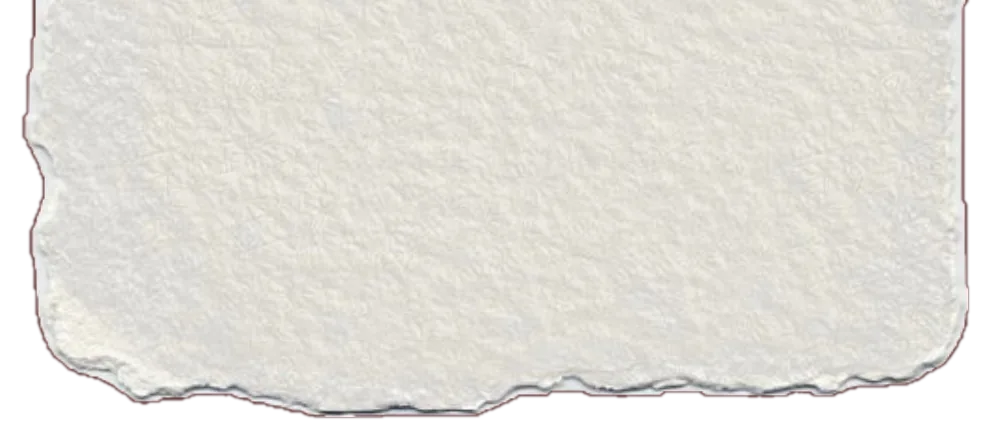
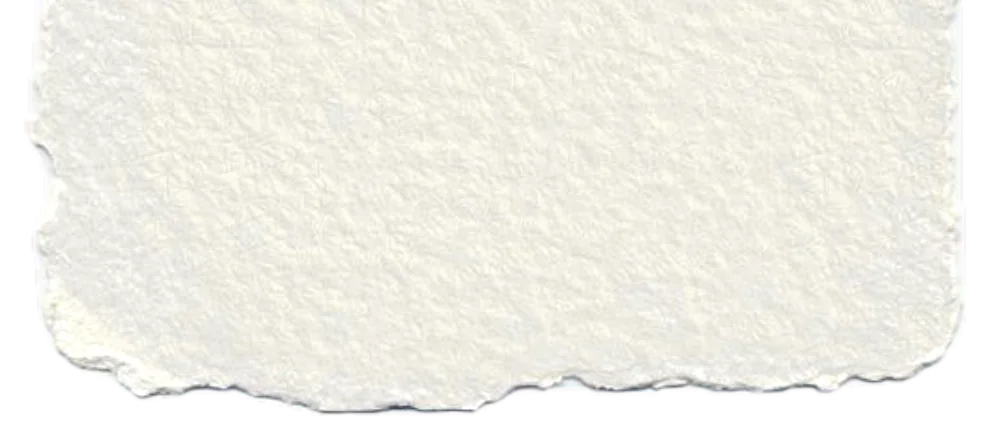
Preguntas frecuentes: papel sin sello ni fondo rojo, preguntas visibles directamente
Claude-Session: https://claude.ai/code/session_01GZEGc3GfotYqVDB8Dyx519

diff --git a/index.html b/index.html
@@ -497,38 +497,37 @@
   <!-- ===================== PREGUNTAS FRECUENTES (carta que se abre) ===================== -->
   <section id="preguntas" class="faq" aria-label="Preguntas frecuentes">
     <div class="wrap">
-      <details class="carta">
-        <summary class="carta-papel">
-          <span class="carta-titulo">Preguntas frecuentes</span>
-          <span class="carta-abrir">toquen para abrir la carta</span>
-        </summary>
-        <div class="carta-preguntas">
-          <details class="pregunta">
-            <summary>¿Cómo pueden reservarme?</summary>
-            <p>Pueden reservar su fecha con el primer anticipo (50%) y la firma del contrato.</p>
-          </details>
-          <details class="pregunta">
-            <summary>¿Cuántas fotos entrego?</summary>
-            <p>Recibirán entre 400 y 800 fotos editadas. La cantidad final depende de la duración de la cobertura, los momentos vividos y la selección final de imágenes. Mi prioridad es entregar una galería completa y cuidadosamente editada, sin perseguir un número determinado de fotografías.</p>
-          </details>
-          <details class="pregunta">
-            <summary>¿Cuánto tiempo tardaré en entregarles sus fotos?</summary>
-            <p>Todas las fotos pasan por un proceso de selección y edición para que sean lo más hermosas posible, con un estilo de tonos cálidos. El tiempo de entrega de las galerías en línea es de entre 25 y 40 días.</p>
-          </details>
-          <details class="pregunta">
-            <summary>¿Puedes hacernos Photoshop y adelgazarnos?</summary>
-            <p>No hago retoques de adelgazamiento ni correcciones corporales. Si hay algo que prefieran que tenga en cuenta al momento de fotografiarlos, cuéntenmelo antes: así puedo cuidar cada ángulo con intención. Una edición más específica se cotiza por foto.</p>
-          </details>
-          <details class="pregunta">
-            <summary>¿Viajas a otras ciudades o destinos?</summary>
-            <p>Sí. Los gastos de transporte y alojamiento se cotizan por separado, según el destino.</p>
-          </details>
-          <details class="pregunta">
-            <summary>¿Trabajas con lluvia o imprevistos del clima?</summary>
-            <p>Sí. La luz y el clima hacen parte de la historia. Confíen en mí.</p>
-          </details>
+      <div class="carta">
+        <div class="carta-papel">
+          <h2 class="carta-titulo">Preguntas frecuentes</h2>
+          <div class="carta-preguntas">
+            <details class="pregunta">
+              <summary>¿Cómo pueden reservarme?</summary>
+              <p>Pueden reservar su fecha con el primer anticipo (50%) y la firma del contrato.</p>
+            </details>
+            <details class="pregunta">
+              <summary>¿Cuántas fotos entrego?</summary>
+              <p>Recibirán entre 400 y 800 fotos editadas. La cantidad final depende de la duración de la cobertura, los momentos vividos y la selección final de imágenes. Mi prioridad es entregar una galería completa y cuidadosamente editada, sin perseguir un número determinado de fotografías.</p>
+            </details>
+            <details class="pregunta">
+              <summary>¿Cuánto tiempo tardaré en entregarles sus fotos?</summary>
+              <p>Todas las fotos pasan por un proceso de selección y edición para que sean lo más hermosas posible, con un estilo de tonos cálidos. El tiempo de entrega de las galerías en línea es de entre 25 y 40 días.</p>
+            </details>
+            <details class="pregunta">
+              <summary>¿Puedes hacernos Photoshop y adelgazarnos?</summary>
+              <p>No hago retoques de adelgazamiento ni correcciones corporales. Si hay algo que prefieran que tenga en cuenta al momento de fotografiarlos, cuéntenmelo antes: así puedo cuidar cada ángulo con intención. Una edición más específica se cotiza por foto.</p>
+            </details>
+            <details class="pregunta">
+              <summary>¿Viajas a otras ciudades o destinos?</summary>
+              <p>Sí. Los gastos de transporte y alojamiento se cotizan por separado, según el destino.</p>
+            </details>
+            <details class="pregunta">
+              <summary>¿Trabajas con lluvia o imprevistos del clima?</summary>
+              <p>Sí. La luz y el clima hacen parte de la historia. Confíen en mí.</p>
+            </details>
+          </div>
         </div>
-      </details>
+      </div>
     </div>
   </section>
 

diff --git a/assets/css/landing.css b/assets/css/landing.css
@@ -904,42 +904,18 @@ main .eyebrow{ color:var(--wine); }
 .js-reveal .steps .step:nth-child(3){ transition-delay:.3s; }
 @media (prefers-reduced-motion:reduce){ .js-reveal .steps .step{ opacity:1; transform:none; transition:none; } }
 
-/* Preguntas frecuentes: papel hecho a mano con sello de cera, sobre fondo vino */
-.faq{ --w:min(540px, calc(100vw - 32px)); background:#380607; padding-block:72px 220px; position:relative; }
-.faq::after{ content:""; position:absolute; left:0; right:0; bottom:0; height:190px; background:linear-gradient(to bottom, rgba(255,255,255,0), #fff); pointer-events:none; }
-.carta{ width:var(--w); margin-inline:auto; position:relative; z-index:1; filter:drop-shadow(0 18px 24px rgba(0,0,0,0.45)); }
-.carta > summary{ list-style:none; cursor:pointer; }
-.carta > summary::-webkit-details-marker{ display:none; }
-.carta-papel, .carta-preguntas{ display:block; }
-.faq{ --ht:calc(var(--w) * 0.5327); --hb:calc(var(--w) * 0.4422); }
+/* Preguntas frecuentes: papel hecho a mano sobre fondo claro */
+.faq{ --w:min(560px, calc(100vw - 24px)); --hb:calc(var(--w) * 0.4422); background:var(--bg-soft); padding-block:64px 72px; }
+.carta{ width:var(--w); margin-inline:auto; filter:drop-shadow(0 14px 22px rgba(34,31,27,0.22)); }
 .carta-papel{
-  position:relative;
-  min-height:calc(var(--w) * 1.12);
-  padding:calc(var(--w) * 0.42) 14% calc(var(--w) * 0.12);
-  text-align:center;
+  display:block;
+  padding:calc(var(--w) * 0.2) 13% calc(var(--w) * 0.2);
   background:
-    url('/assets/img/carta-top.webp') 0 0 / 100% var(--ht) no-repeat,
+    url('/assets/img/carta-top.webp') 0 0 / 100% var(--hb) no-repeat,
     url('/assets/img/carta-bot.webp') 0 100% / 100% var(--hb) no-repeat,
-    url('/assets/img/carta-mid.webp') 0 calc(var(--ht) - 2px) / 100% calc(100% - var(--ht) - var(--hb) + 4px) no-repeat;
+    url('/assets/img/carta-mid.webp') 0 calc(var(--hb) - 2px) / 100% calc(100% - var(--hb) - var(--hb) + 4px) no-repeat;
 }
-.carta-papel:focus-visible{ outline:2px solid #fff; outline-offset:4px; }
-.carta-titulo{ display:block; font-family:'Cormorant Garamond', serif; font-style:italic; font-weight:700; font-size:clamp(32px,8vw,46px); line-height:1.05; color:var(--wine); }
-.carta-abrir{ display:block; margin-top:14px; font-size:11.5px; letter-spacing:0.26em; text-transform:uppercase; color:#5b5249; }
-.carta[open] .carta-abrir{ display:none; }
-.carta[open] > .carta-papel{
-  min-height:0; padding-bottom:6px;
-  background:
-    url('/assets/img/carta-top.webp') 0 0 / 100% var(--ht) no-repeat,
-    url('/assets/img/carta-mid.webp') 0 calc(var(--ht) - 2px) / 100% calc(100% - var(--ht) + 2px) no-repeat;
-}
-.carta-preguntas{
-  padding:0 14% calc(var(--w) * 0.2);
-  background:
-    url('/assets/img/carta-bot.webp') 0 100% / 100% var(--hb) no-repeat,
-    url('/assets/img/carta-mid.webp') 0 -2px / 100% calc(100% - var(--hb) + 4px) no-repeat;
-  animation:carta-sale .7s ease both;
-}
-@keyframes carta-sale{ from{ opacity:0; transform:translateY(-14px); } to{ opacity:1; transform:none; } }
+.carta-titulo{ margin:0 0 12px; text-align:center; font-family:'Cormorant Garamond', serif; font-style:italic; font-weight:700; font-size:clamp(32px,8vw,46px); line-height:1.05; color:var(--wine); text-transform:none; }
 .pregunta{ border-bottom:1px solid rgba(157,0,9,0.25); }
 .pregunta summary{ list-style:none; cursor:pointer; display:flex; justify-content:space-between; align-items:baseline; gap:14px; padding:16px 0; font-size:15.5px; letter-spacing:0.06em; text-transform:uppercase; color:var(--ink); }
 .pregunta summary::-webkit-details-marker{ display:none; }
